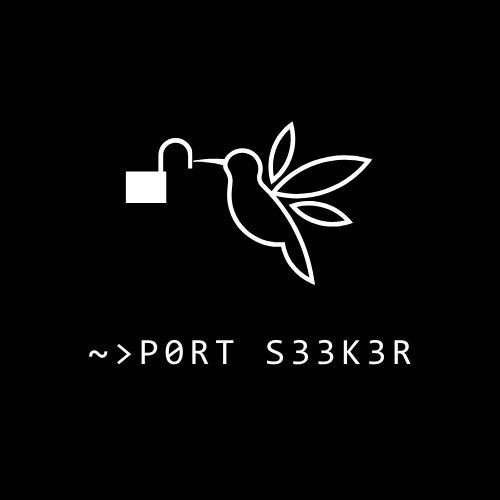
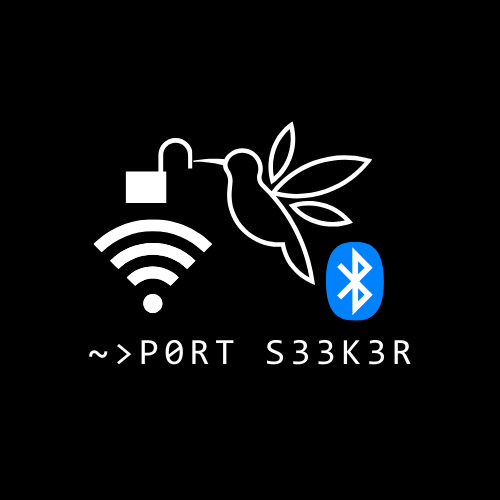
Lanzamiento de PortSeeker 2.0 con nuevas funciones!

Changed region(s): [[0.18, 0.42, 0.42, 0.63], [0.63, 0.48, 0.78, 0.66]]

diff --git a/setup.cpp b/setup.cpp
@@ -122,27 +122,41 @@ class Mess{
             "use : ./prtker <ADDRESS> --arp | get macaddress",
             "use : ./prtker <ADDRESS> --icmp | icmp request",
             "use : ./prtker <ADDRESS> --osdetection | OS Detection",
-            "use : ./prtker <ADDRESS --CRAZYMODE | all in one (VERY NOISY)"
-    	};
+            "use : ./prtker <ADDRESS> --CRAZYMODE | all in one (VERY NOISY) ^^^",
+            "use : ./prtker --list-bluetooth | list bluetooth devices",
+            "use : ./prtker <MACADDRESS> --bluetooth-connect | Connection Bluetooth"
+            };
     		size_t main = sizeof(var)/sizeof(string);
     		for(int i=0; i<main;i++){
     			cout<<var[i]<<endl;
     		}
     	}
+        void Connection_bluetooth(){
+            cout<<BLUE<<"Starting BLUETOOTH CONNECT PortSeeker 2.0"<<endl;
+        }
+        void Connection_bluetooth_info(){
+            cout<<"./prtker <MACADDRESS> --bluetooth-connect"<<endl;
+        }
+        void bluetooth_list(){
+            cout<<BLUE<<"Starting BLUETOOTH LIST DEVICES PortSeeker 2.0"<<endl;
+        }
+        void bluettoh_info(){
+            cout<<"./prtker --list-bluetooth"<<endl;
+        }
         void crazy_principal(){
-            cout<<BLUE<<"Starting CRAZYMODE PortSeeker 1.9"<<endl;
+            cout<<BLUE<<"Starting CRAZYMODE PortSeeker 2.0"<<endl;
         }
         void crazy_info(){
             cout<<"./prtker <IPV4> --CRAZYMODE"<<endl;
         }
         void os_principal(){
-            cout<<BLUE<<"Starting OSDETECTION PortSeeker 1.9"<<endl;
+            cout<<BLUE<<"Starting OSDETECTION PortSeeker 2.0"<<endl;
         }
         void os_info(){
             cout<<"./prtker <IPV4> --osdetection"<<endl;
         }
         void icmp_principal(){
-            cout<<BLUE<<"Starting ICMP PortSeeker 1.9"<<endl;
+            cout<<BLUE<<"Starting ICMP PortSeeker 2.0"<<endl;
         }
         void icmp_info(){
             cout<<"./prtker <IPV4> --icmp"<<endl;
@@ -151,19 +165,19 @@ class Mess{
             cout<<"./prtker <IPV4> --arp"<<endl;
         }
     	void version(){
-    		cout<<BLUE<<"PortSeeker version 1.9"<<endl;
+    		cout<<BLUE<<"PortSeeker version 2.0"<<endl;
     	}
     	void principal(){
-    		cout<<BLUE<<"Starting BasicScan PortSeeker 1.9"<<endl;
+    		cout<<BLUE<<"Starting BasicScan PortSeeker 2.0"<<endl;
     	}
     	void httpGET_scan(){
-    		cout<<BLUE<<"Starting HTTPGET PortSeeker 1.9"<<endl;
+    		cout<<BLUE<<"Starting HTTPGET PortSeeker 2.0"<<endl;
     	}
         void server_version(){
-            cout<<BLUE<<"Starting SERVERVERSION PortSeeker 1.9"<<endl;
+            cout<<BLUE<<"Starting SERVERVERSION PortSeeker 2.0"<<endl;
         }
         void server_arp(){
-            cout<<BLUE<<"Starting GETMACADRESS PortSeeker 1.9"<<endl;
+            cout<<BLUE<<"Starting GETMACADRESS PortSeeker 2.0"<<endl;
         }
     	void banner(){
     		system("python3 scripts_python/banner.py");
@@ -187,6 +201,16 @@ private:
 	int var;
 	int var2;
 public:
+    int connected_bluetooth(string macaddress){
+        stringstream Jojo;
+        Jojo<<"python3 scripts_python/blue2.py -a "<<macaddress;
+        system(Jojo.str().c_str());
+        return 0;
+    }
+    int lister_bluetooth(){
+        system("python3 scripts_python/blue.py");
+        return 0;
+    }
     int os_detection(const char* direccion_interna){
         stringstream LOL;
         LOL<<"bash bash_scripts/os.sh "<<direccion_interna;
@@ -277,6 +301,28 @@ int main(int argc, char* argv[]){
 //int detect_service(const char* hostname, const char* port){
     //detect_service("192.168.8.136", "4000");
     if(argc==2){
+        if(strcmp(argv[1], "--bluetooth-connect")==0){
+            Mess kk;Mess* kok = &kk;
+            kok->Connection_bluetooth_info();
+            return 0;
+        }
+        if(strcmp(argv[1], "--list-bluetooth")==0){
+            Mess Nan;Mess* L = &Nan;
+            L->banner();
+            Mess Infanteria;Mess* Soldado = &Infanteria;
+            Soldado->bluetooth_list();
+            auto localitation = steady_clock::now();
+            Connections lOcal;Connections* cOnTROL = &lOcal;
+            cOnTROL->lister_bluetooth();
+            auto peticionGETFinal = steady_clock::now();
+            duration<double> duration = peticionGETFinal - localitation;
+            double httpget = duration.count();
+            double factore = pow(10, 2);
+            double decimal_a = round(httpget * factore) / factore;
+            cout<<GREEN<<"PortSeeker done: scan in "<<fixed<<setprecision(2)<<decimal_a;
+            cout<<" seconds"<<RESET<<endl;
+            return 0;
+        }
         if(strcmp(argv[1], "--CRAZYMODE")==0){
             Mess C;Mess* R = &C;
             R->crazy_info();
@@ -344,6 +390,23 @@ int main(int argc, char* argv[]){
         int icmp = strcmp(argv[2], "--icmp");
         int os_det = strcmp(argv[2], "--osdetection");
         int craz = strcmp(argv[2], "--CRAZYMODE");
+        int bluetooth = strcmp(argv[2], "--bluetooth-connect");
+        if(bluetooth==0){
+            Mess sql; Mess* sqli = &sql;
+            sqli->banner();
+            Mess mantainer; Mess* tain = &mantainer;
+            tain->Connection_bluetooth();
+            auto _HTML = steady_clock::now();
+            Connections ll; Connections* uu = &ll;
+            uu->connected_bluetooth(argv[1]);
+            auto __FINAL = steady_clock::now();
+            duration<double> duration = __FINAL - _HTML;
+            double argget = duration.count();
+            double factor = pow(10, 2);
+            double dimal = round(argget * factor) / factor;
+            cout<<GREEN<<"PortSeeker done: scan in "<<fixed<<setprecision(2)<<dimal;
+            cout<<" seconds"<<RESET<<endl;
+        }
         if(craz==0){
             auto _HTML = steady_clock::now();
             Mess _CSS; Mess* XSS = &_CSS;

diff --git a/scripts_python/blue2.py b/scripts_python/blue2.py
@@ -1,0 +1,13 @@
+import asyncio
+from bleak import BleakClient
+import argparse
+parse = argparse.ArgumentParser()
+parse.add_argument("-a", "--address", help="MAC ADDRESS");
+args = parse.parse_args();
+async def connect_to_bluetooth_device(device_address):
+    async with BleakClient(device_address) as client:
+        if client.is_connected:
+            print(f"Connected {device_address}")
+        else:
+            print(f"Error connecting {device_address}")
+asyncio.run(connect_to_bluetooth_device(args.address))

diff --git a/scripts_python/blue.py b/scripts_python/blue.py
@@ -1,0 +1,9 @@
+import asyncio
+from bleak import BleakScanner
+import colorama
+from colorama import Fore
+async def listar_dispositivos():
+	dispositivos = await BleakScanner.discover();
+	for dispositivo in dispositivos:
+		print(f"{Fore.RED}MacAdress : {Fore.GREEN}{dispositivo.address}, {Fore.RED}Name: {Fore.GREEN}{dispositivo.name} {Fore.RESET}");
+asyncio.run(listar_dispositivos());

diff --git a/README.md b/README.md
@@ -2,7 +2,7 @@
 <center>
     <img src="IMG_0385.jpeg"><br>
     <img src="01.png">
-    <img src="02.png">
+    <img src="02.jpg">
 </center>
 * 
 Port Scanner, opensource and programmed in C++ for linux distros.
@@ -52,6 +52,13 @@ sudo apt -y install python3-pip
 
 ```
 pip3 install scapy --break-system-packages
+pip3 install colorama --break-system-packages
+pip3 install asyncio --break-system-packages
+pip3 install bleak --break-system-packages
+```
+OR
+```
+pip3 install -r requirements.txt --break-system-packages
 ```
 ### COMPILE CODE
 ```
@@ -60,7 +67,7 @@ g++ setup.cpp -o prtker -std=c++11 -lcurl
 ### Commands
 ```
 !!!!!everything must be run as root!!!!
-
+################LAN NETWORK TOOLS###################
 ./prtker 192.168.0.1 ---> BasicScan
 ./prtker 192.168.0.1 -sV ---> Port Version Scan
 ./prtker 192.168.0.1 -p 80 ---> specific port
@@ -70,6 +77,9 @@ g++ setup.cpp -o prtker -std=c++11 -lcurl
 ./prtker 192.168.0.1 --icmp --> icmp requests
 ./prtker 192.168.0.1 --osdetection --> os detection
 ./prtker 192.168.0.1 --CRAZYMODE --> all in one
+#################BLUETOOTH TOOLS#####################
+./prtker --list-bluetooth --> list bluetooth devices
+./prtker <FF:FF:FF:FF:FF> --bluetooth-connect --> connect to a device
 ```
 ## info commands
 ```
@@ -80,6 +90,7 @@ g++ setup.cpp -o prtker -std=c++11 -lcurl
 ## Improvements:
 
 ```
+>>> New features for bluetooth
 >>> New function for ICMP requests
 >>> New function to obtain mac address
 >>> Http and https requests are returned
